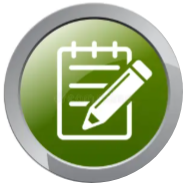
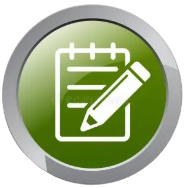
editicons

diff --git a/screens/MyDojoStyles.js b/screens/MyDojoStyles.js
@@ -690,11 +690,11 @@ cardText: { fontSize: 16, fontWeight: 'bold', color: '#bddff3', paddingHorizonta
 greenDivider: {width: '90%', height: 42, alignSelf: 'center',marginVertical: 15,shadowColor: '#c9f5d5', shadowOffset: { width: 0, height: 0 },shadowOpacity: 0.5,shadowRadius: 10, backgroundColor: 'rgba(195, 209, 223, 0.4)', opacity: 1},
 redDivider: {width: '90%',height: 41, alignSelf: 'center', marginVertical: 15, shadowColor: '#f8d7d7', shadowOffset: { width: 0, height: 0 },shadowOpacity: 0.5,shadowRadius: 10, backgroundColor: 'rgba(195, 209, 223, 0.4)', opacity: 1},
 smallGap: {height: 12,},
-cardInternal: { padding: 10, backgroundColor: 'rgba(0,0,0,0.6)', borderRadius: 10 },
-redPlusIcon:{height: 50, width: 50, borderRadius: 4, marginLeft: 14, backgroundColor: 'rgba(0,0,0,0.5)', marginBottom: 7, opacity: 1},
-plusIcon:{height: 50, width: 50, borderRadius: 4, marginLeft: 19, backgroundColor: 'rgba(0,0,0,0.5)', marginBottom: 7, opacity: 1},
-infoIcon:{height: 45, width: 45, marginLeft: 16, marginBottom: 9,},
-importIcon:{height: 61, width: 57, borderRadius: 9, marginLeft: 16, marginBottom: 3},
+cardInternal:{ padding: 10, backgroundColor: 'rgba(0,0,0,0.6)', borderRadius: 10 },
+redPlusIcon: { height: 57, width: 57, borderRadius: 4, marginLeft: 12, marginBottom: 4, opacity: 1},
+plusIcon: { height: 57, width: 57, borderRadius: 4, marginLeft: 12, marginBottom: 4, opacity: 1},
+infoIcon: { height: 45, width: 45, marginLeft: 16, marginBottom: 9,},
+importIcon: {height: 61, width: 57, borderRadius: 9, marginLeft: 16, marginBottom: 3},
 selectedItemPdf: { borderWidth: 2, borderColor: '#1e0899', backgroundColor: 'rgba(97, 71, 245, 0.6)' },
 titleTextPdf: { color: '#6b8cff', fontWeight: 'bold', fontSize: 12, textAlign: "center", alignSelf: "flex-start" },
 pillRowPdf: { flexDirection: 'row', justifyContent: 'space-between', alignItems: 'center', padding: 5, backgroundColor: 'rgba(8, 35, 153, 0.3)', paddingHorizontal: 3, borderRadius: 9, marginTop: 8, opacity: 1 },
